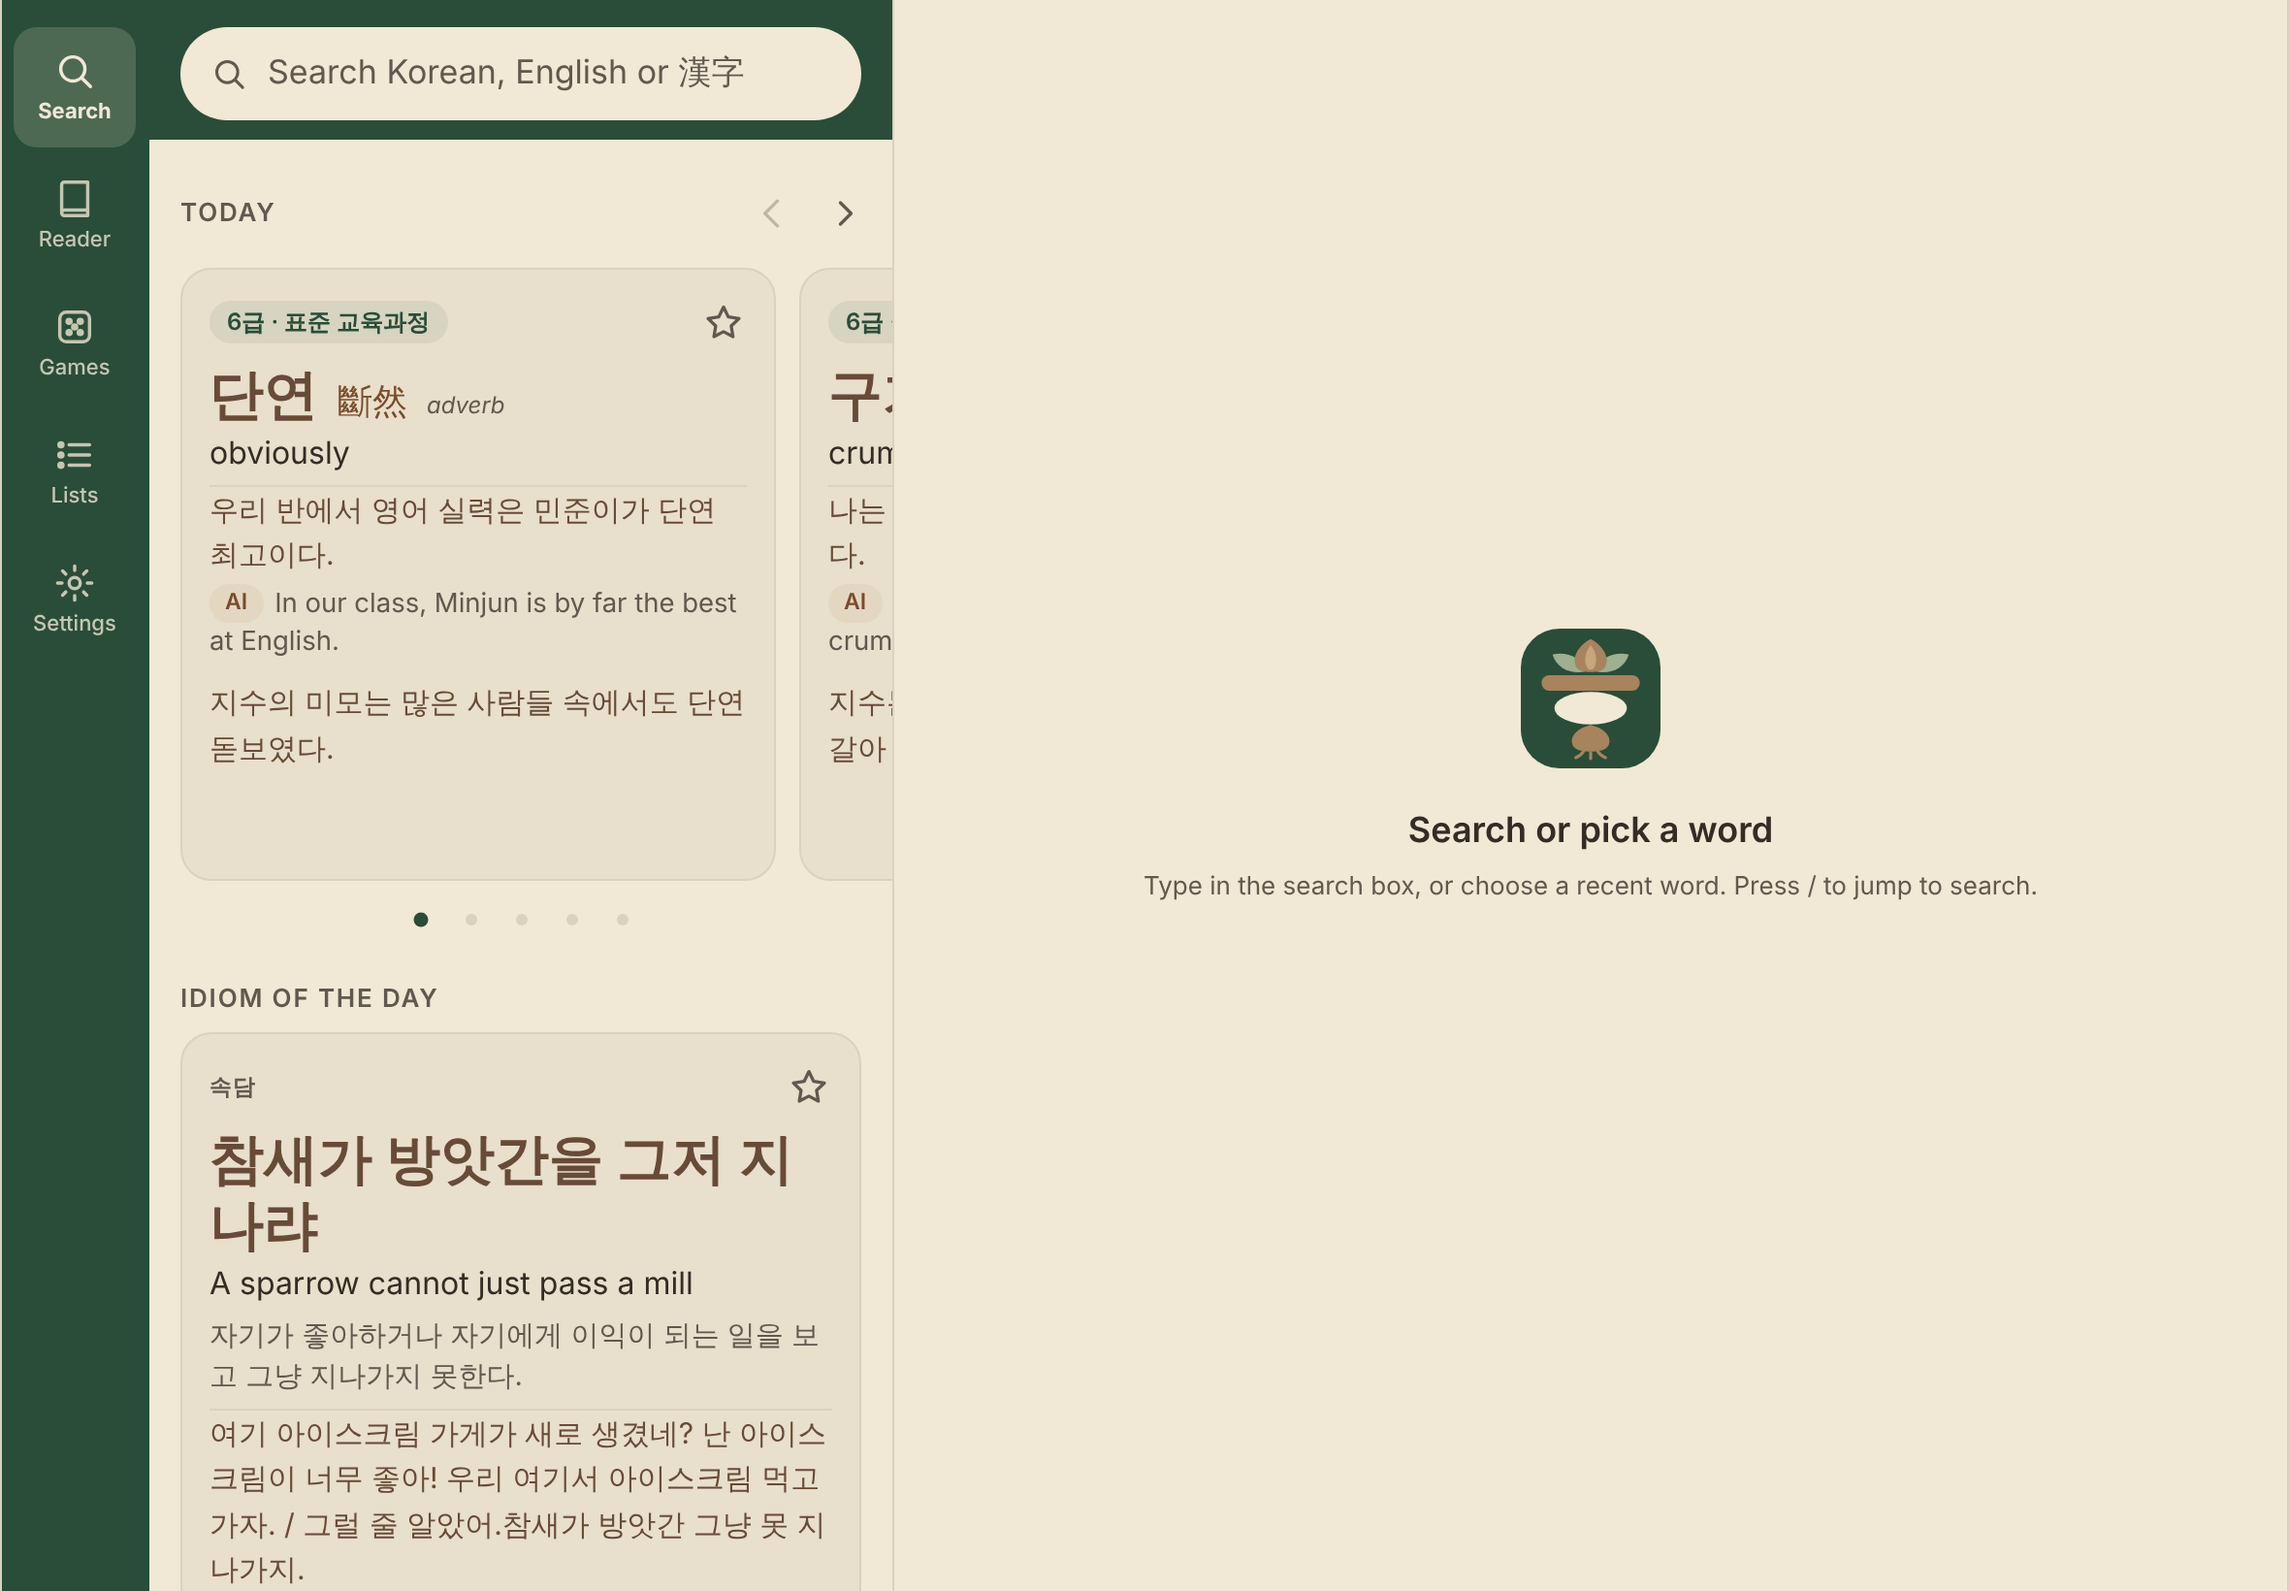
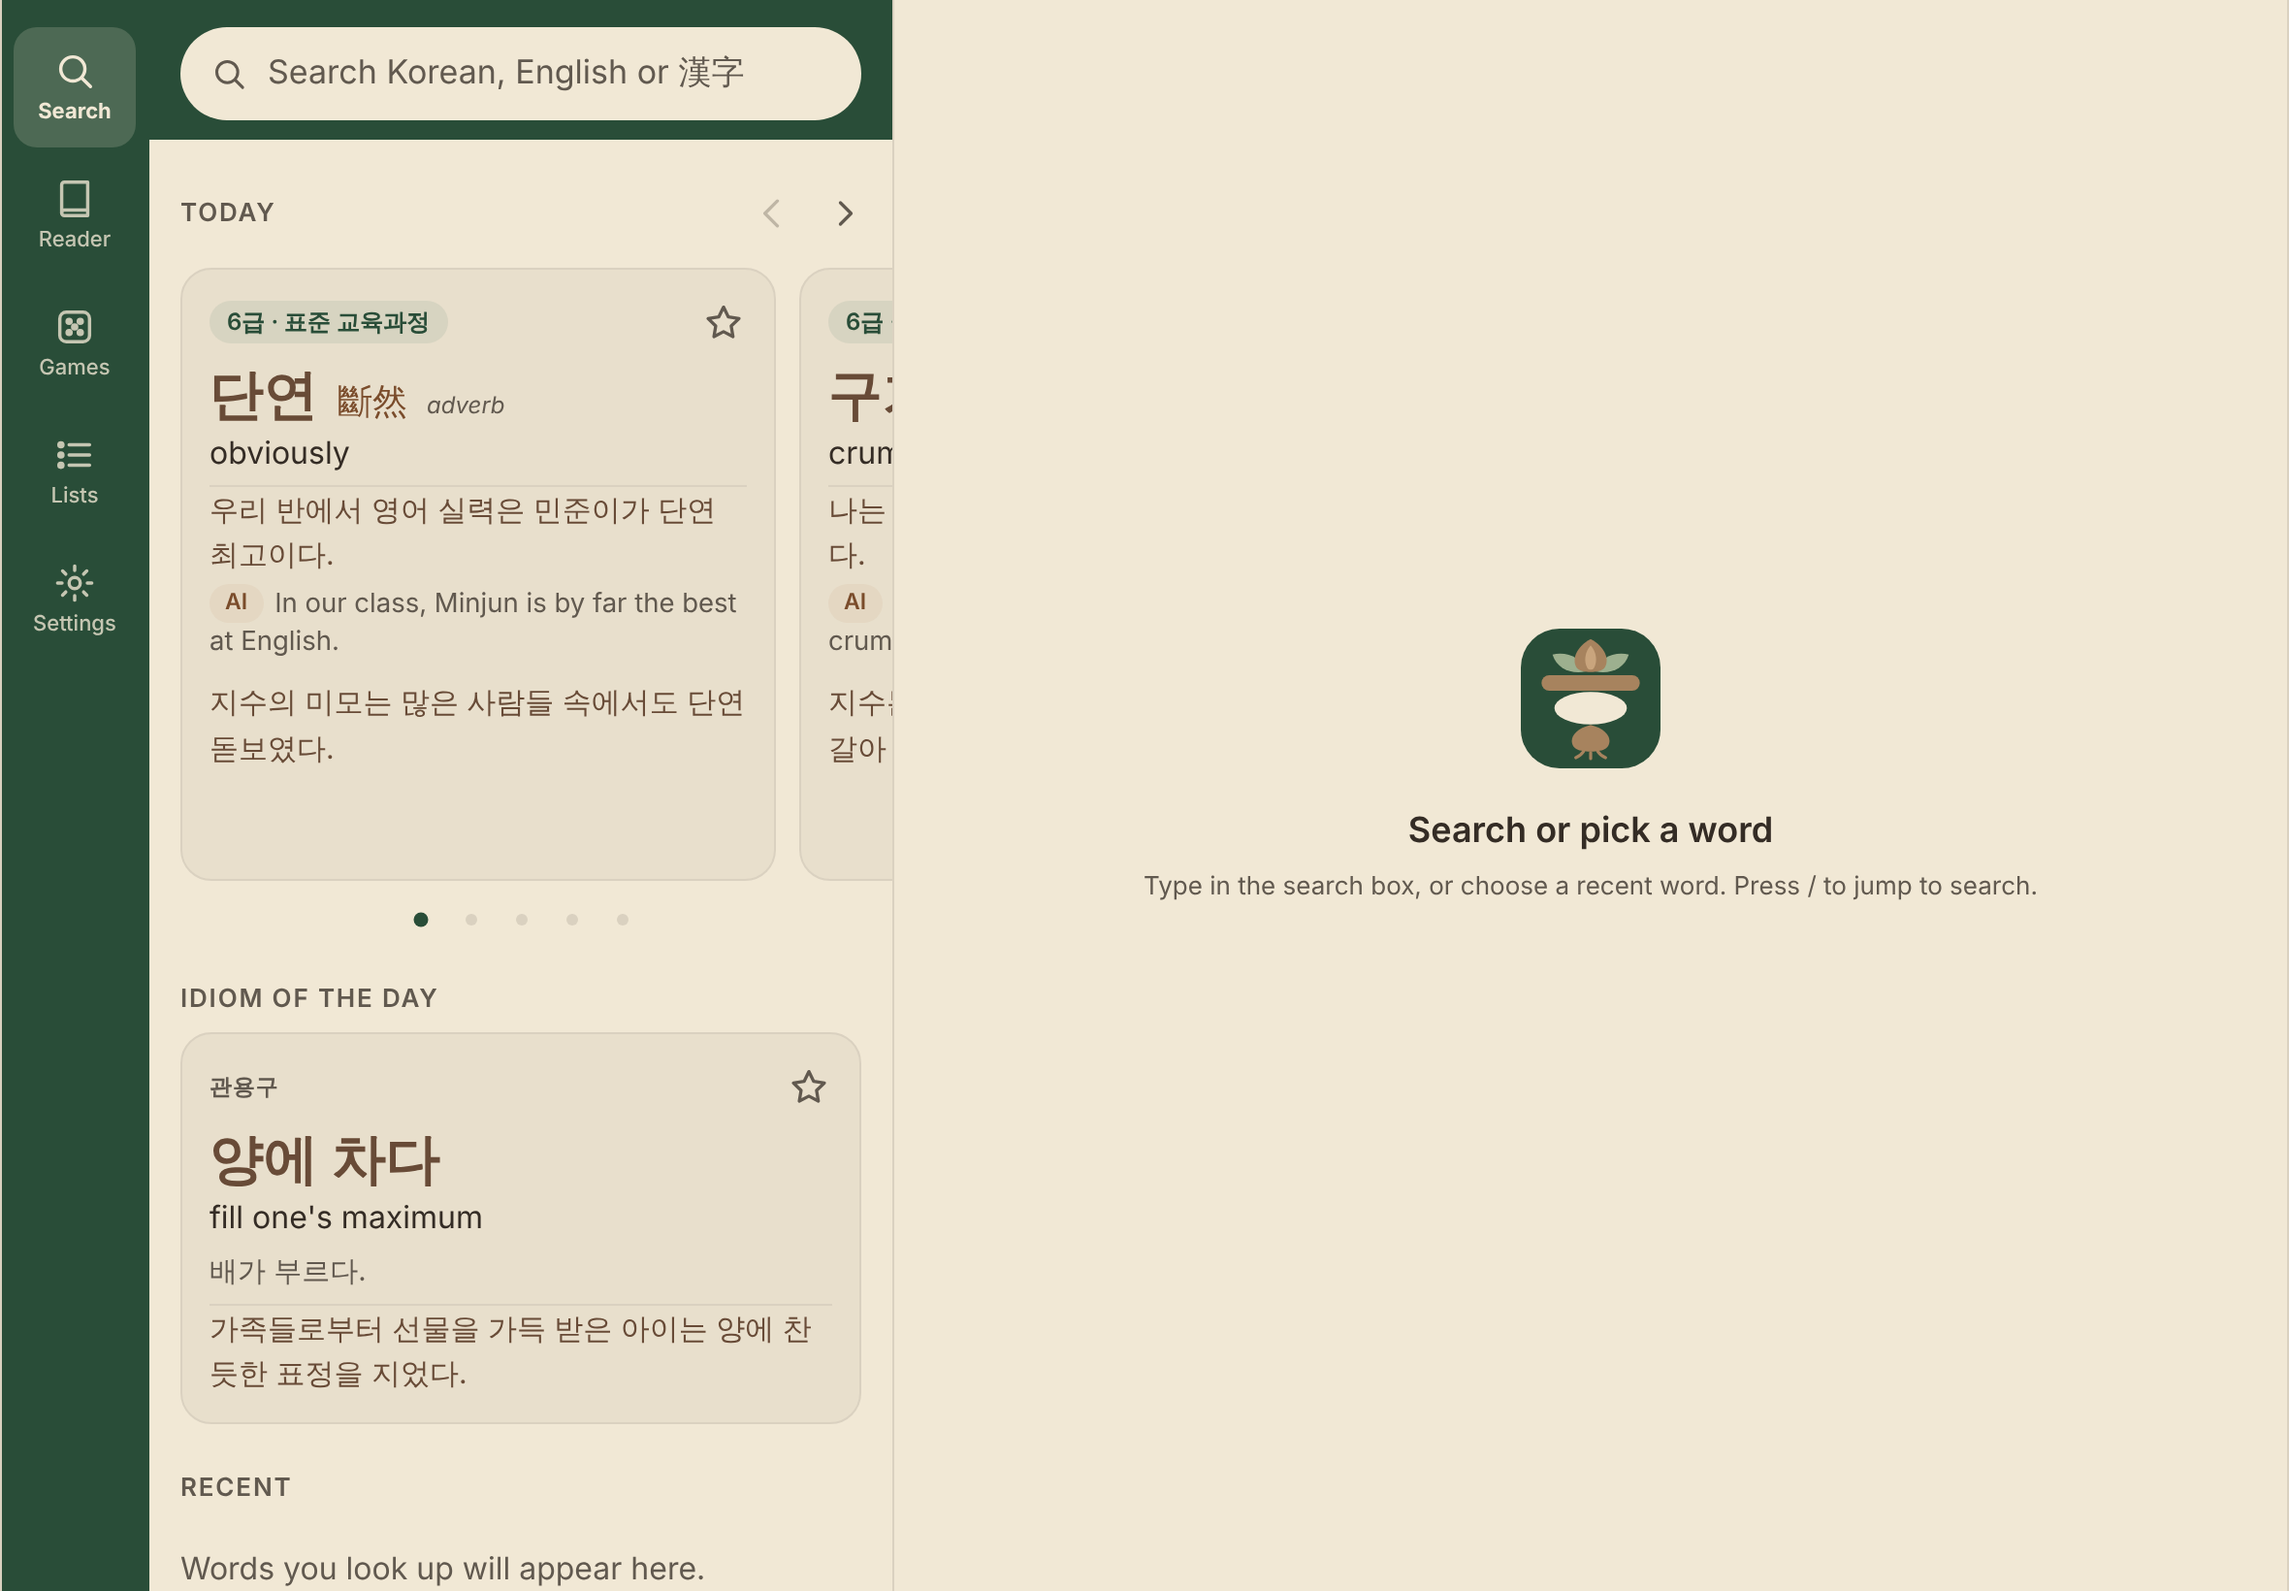
Settings: wait for installed pack versions before judging 'up to date'; refreshed home screenshots
Claude-Session: https://claude.ai/code/session_01KdPaeje8PEPnx6eSEhkmxd

Changed region(s): [[0.0928, 0.7152, 0.3403, 0.9951], [0.0928, 0.653, 0.1237, 0.6841]]

diff --git a/app/src/views/Settings.tsx b/app/src/views/Settings.tsx
@@ -25,8 +25,10 @@ const THEMES: [ThemeName, string][] = [['light', 'Light'], ['dark', 'Dark'], ['s
 const COLORS: [ColorKey, string][] = [['accent', 'Accent'], ['bg', 'Background'], ['text', 'Text'], ['hangul', 'Hangul'], ['hanja', 'Hanja']];
 
 export function checkForUpdate(): Promise<Manifest | null> {
-  return fetchManifest().then((m) => {
-    const stale = stalePacks(packStatus$.get()?.packs, m);
+  return fetchManifest().then(async (m) => {
+    // the engine may still be busy at launch: wait for the installed versions rather than report "up to date" on no data
+    const st = packStatus$.get() ?? await db.packStatus().catch(() => undefined);
+    const stale = stalePacks(st?.packs, m);
     update.set({ manifest: m, available: stale.length > 0, stale });
     return m;
   }, () => null);
